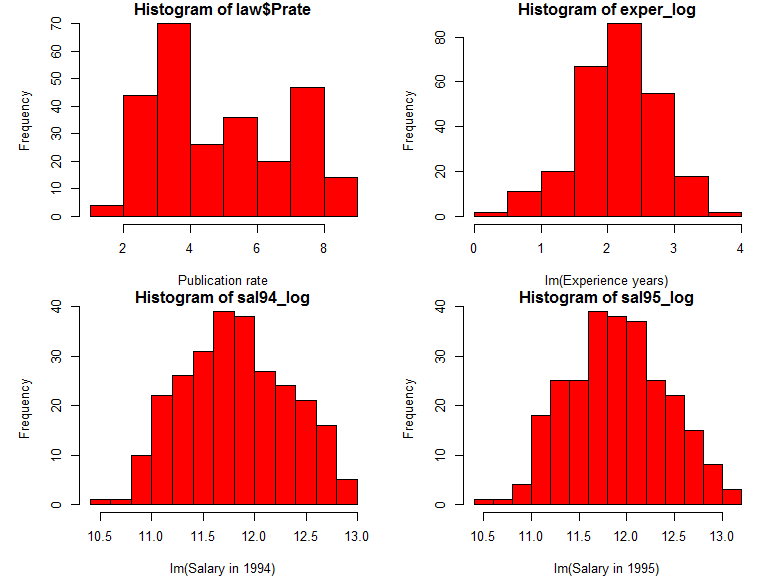
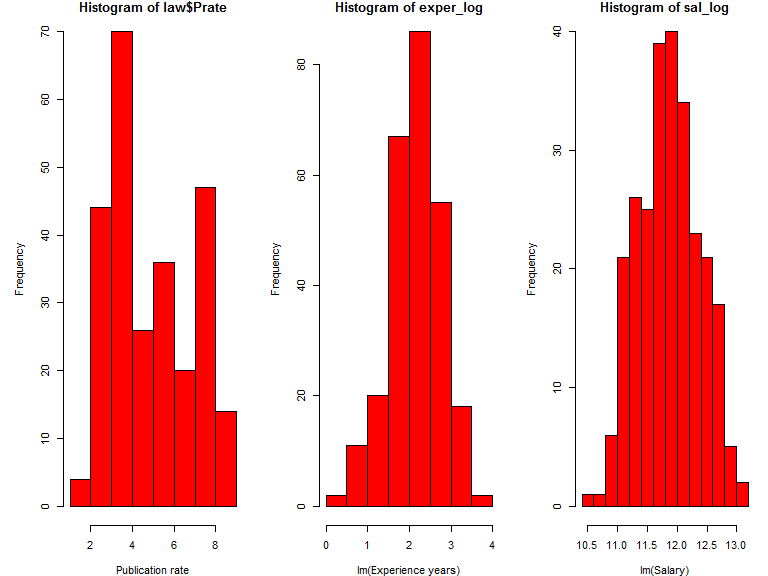
average

diff --git a/m_project.md b/m_project.md
@@ -4,7 +4,8 @@ Junhui Mi (jm4998)
 
 ``` r
 law = read_csv("./data/Lawsuit.csv") %>%
-  dplyr::select(-ID)
+  mutate(Sal = (Sal94 + Sal95)/2) %>%
+  dplyr::select(-ID, -Sal94, -Sal95)
 ```
 
     ## Parsed with column specification:
@@ -42,7 +43,7 @@ law_df = law %>%
          Cert = factor(Cert, levels = c(0,1), labels = c("not certified", "Board certified")),
          Rank = factor(Rank, levels = c(0,1,2), labels = c("Full professor", "Assistant", "Associate")))
 
-my_labels <- list(Dept = "Department", Gender = "Gender", Clin = "Research/Clinical emphasis", Cert = "Not/Board Certificated", Prate = "Publication rate", Exper = "Experience(years)", Rank = "Title", Sal94 = "Salary in 1994", Sal95 = "Salary in 1995")
+my_labels <- list(Dept = "Department", Gender = "Gender", Clin = "Research/Clinical emphasis", Cert = "Not/Board Certificated", Prate = "Publication rate", Exper = "Experience(years)", Rank = "Title", Sal = "Average Salary in 1994-1995")
 
 my_controls <- tableby.control(
   total = T,
@@ -56,7 +57,7 @@ my_controls <- tableby.control(
     range = "Min - Max",
     countpct = "N (%)"))
 
-tab1 <- tableby(Gender ~ Dept + Clin + Cert + Prate + Exper + Rank + Sal94 + Sal95, data = law_df, control = my_controls)
+tab1 <- tableby(Gender ~ Dept + Clin + Cert + Prate + Exper + Rank + Sal, data = law_df, control = my_controls)
 
 summary(tab1, title = "Summary by Gender", 
         labelTranslations = my_labels, text = T)
@@ -89,14 +90,10 @@ summary(tab1, title = "Summary by Gender",
 | \- Full professor                 |           16 (15.1%)            |            69 (44.5%)            |           85 (32.6%)            |
 | \- Assistant                      |           69 (65.1%)            |            43 (27.7%)            |           112 (42.9%)           |
 | \- Associate                      |           21 (19.8%)            |            43 (27.7%)            |           64 (24.5%)            |
-| Salary in 1994                    |                                 |                                  |                                 |
-| \- Mean (SD)                      |      118871.27 (56168.01)       |       177338.76 (85930.54)       |      153593.34 (80469.67)       |
-| \- Median (Q1, Q3)                | 108457.00 (75774.50, 143096.00) | 155006.00 (109687.00, 231501.50) | 133284.00 (90771.00, 200543.00) |
-| \- Min - Max                      |      34514.00 - 308081.00       |       52582.00 - 428876.00       |      34514.00 - 428876.00       |
-| Salary in 1995                    |                                 |                                  |                                 |
-| \- Mean (SD)                      |      130876.92 (62034.51)       |       194914.09 (94902.73)       |      168906.66 (88778.43)       |
-| \- Median (Q1, Q3)                | 119135.00 (82345.25, 154170.50) | 170967.00 (119952.50, 257163.00) | 148117.00 (99972.00, 218955.00) |
-| \- Min - Max                      |      38675.00 - 339664.00       |       58923.00 - 472589.00       |      38675.00 - 472589.00       |
+| Average Salary in 1994-1995       |                                 |                                  |                                 |
+| \- Mean (SD)                      |      124874.09 (59089.62)       |       186126.43 (90397.11)       |      161250.00 (84608.33)       |
+| \- Median (Q1, Q3)                | 113706.00 (79059.88, 148401.12) | 162987.00 (114612.50, 244332.25) | 141628.00 (95176.50, 210012.50) |
+| \- Min - Max                      |      36594.50 - 323872.50       |       55752.50 - 445859.00       |      36594.50 - 445859.00       |
 
 Summary by Gender
 
@@ -112,34 +109,29 @@ cor_mat = round(cor(law),2)
 
 
 par(mar = c(4,5,1,1))
-par(mfrow = c(1,2))
 cor(law_df[ ,c(5,6,8)]) %>% 
-  corrplot(method = "circle", type = "upper", diag = FALSE)
-cor(law_df[ ,c(5,6,9)]) %>% 
   corrplot(method = "circle", type = "upper", diag = FALSE)
 ```
 
 <img src="m_project_files/figure-gfm/unnamed-chunk-2-2.png" width="90%" />
 
 ``` r
-par(mfrow = c(2,2))
+par(mfrow = c(1,3))
 hist(law$Prate, xlab = "Publication rate", freq = T, col = 2)
 hist(law$Exper, xlab = "Experience years", freq = T, col = 2)
-hist(law$Sal94, xlab = "Salary in 1994", freq = T, col = 2)
-hist(law$Sal95, xlab = "Salary in 1995", freq = T, col = 2)
+hist(law$Sal, xlab = "Salary", freq = T, col = 2)
 ```
 
 <img src="m_project_files/figure-gfm/unnamed-chunk-2-3.png" width="90%" />
 
 ``` r
 exper_log = log(law$Exper)
-sal94_log = log(law$Sal94)
-sal95_log = log(law$Sal95)
-par(mfrow = c(2,2))
+sal_log = log(law$Sal)
+
+par(mfrow = c(1,3))
 hist(law$Prate, xlab = "Publication rate", freq = T, col = 2)
 hist(exper_log, xlab = "lm(Experience years)", freq = T, col = 2)
-hist(sal94_log, xlab = "lm(Salary in 1994)", freq = T, col = 2)
-hist(sal95_log, xlab = "lm(Salary in 1995)", freq = T, col = 2)
+hist(sal_log, xlab = "lm(Salary)", freq = T, col = 2)
 ```
 
 <img src="m_project_files/figure-gfm/unnamed-chunk-2-4.png" width="90%" />
@@ -148,163 +140,80 @@ hist(sal95_log, xlab = "lm(Salary in 1995)", freq = T, col = 2)
 law_trans = law_df %>%
   mutate(
     exper_log = log(law$Exper),
-    sal94_log = log(law$Sal94),
-    sal95_log = log(law$Sal95)
+    sal_log = log(law$Sal)
   ) %>% 
-  dplyr::select(-Exper, -Sal94, -Sal95)
+  dplyr::select(-Exper, -Sal)
 
 
-mult_fit94 = lm(sal94_log ~ Dept + Gender + Clin + Cert + Prate + Rank + exper_log, data = law_trans)
-step(mult_fit94, direction = 'backward')
+mult_fit = lm(sal_log ~ Dept + Gender + Clin + Cert + Prate + Rank + exper_log, data = law_trans)
+step(mult_fit, direction = 'backward')
 ```
 
-Start: AIC=-1026.52 sal94\_log \~ Dept + Gender + Clin + Cert + Prate +
+Start: AIC=-1027.55 sal\_log \~ Dept + Gender + Clin + Cert + Prate +
 Rank + exper\_log
 
 ``` 
         Df Sum of Sq     RSS      AIC
 ```
 
-  - Gender 1 0.0169 4.6437 -1027.57
-  - Prate 1 0.0351 4.6619 -1026.55 <none> 4.6268 -1026.52
-  - Clin 1 0.2884 4.9152 -1012.74
-  - Rank 2 1.0164 5.6432 -978.69
-  - Cert 1 1.2120 5.8387 -967.80
-  - exper\_log 1 1.5458 6.1726 -953.29
-  - Dept 5 8.7226 13.3494 -759.97
+  - Gender 1 0.0147 4.6233 -1028.72
+  - Prate 1 0.0341 4.6427 -1027.63 <none> 4.6086 -1027.55
+  - Clin 1 0.3029 4.9115 -1012.94
+  - Rank 2 1.0240 5.6326 -979.18
+  - Cert 1 1.1817 5.7903 -969.97
+  - exper\_log 1 1.5524 6.1610 -953.78
+  - Dept 5 8.6840 13.2926 -761.08
 
-Step: AIC=-1027.57 sal94\_log \~ Dept + Clin + Cert + Prate + Rank +
+Step: AIC=-1028.72 sal\_log \~ Dept + Clin + Cert + Prate + Rank +
 exper\_log
 
 ``` 
         Df Sum of Sq     RSS      AIC
 ```
 
-<none> 4.6437 -1027.57 - Prate 1 0.0516 4.6953 -1026.69 - Clin 1 0.2718
-4.9155 -1014.72 - Rank 2 1.0969 5.7406 -976.23 - Cert 1 1.2189 5.8626
--968.74 - exper\_log 1 1.6576 6.3013 -949.90 - Dept 5 8.8681 13.5118
--758.81
+<none> 4.6233 -1028.72 - Prate 1 0.0494 4.6727 -1027.95 - Clin 1 0.2882
+4.9115 -1014.94 - Rank 2 1.1018 5.7251 -976.93 - Cert 1 1.1882 5.8114
+-971.03 - exper\_log 1 1.6604 6.2837 -950.63 - Dept 5 8.8220 13.4453
+-760.10
 
-Call: lm(formula = sal94\_log \~ Dept + Clin + Cert + Prate + Rank +
+Call: lm(formula = sal\_log \~ Dept + Clin + Cert + Prate + Rank +
 exper\_log, data = law\_trans)
 
 Coefficients: (Intercept) DeptBiochemistry/Molecular Biology  
-12.0229 -0.8548  
+12.06878 -0.85843  
 DeptPhysiology DeptGenetics  
-\-1.0226 -0.7053  
+\-1.02545 -0.70945  
 DeptPediatrics DeptMedicine  
-\-0.7106 -0.3632  
+\-0.70864 -0.36604  
 ClinPrimarily clinical emphasis CertBoard certified  
-0.1570 0.1783  
+0.16163 0.17600  
 Prate RankAssistant  
-\-0.0287 -0.2122  
+\-0.02807 -0.21275  
 RankAssociate exper\_log  
-\-0.1053
-0.1844
+\-0.10469
+0.18455
 
 ``` r
-mult_fit94 = lm(sal94_log ~ Dept + Clin + Cert + Prate + Rank + exper_log, data = law_trans)
-summary(mult_fit94)
+mult_fit = lm(sal_log ~ Dept + Clin + Cert + Prate + Rank + exper_log, data = law_trans)
+summary(mult_fit)
 ```
 
-Call: lm(formula = sal94\_log \~ Dept + Clin + Cert + Prate + Rank +
+Call: lm(formula = sal\_log \~ Dept + Clin + Cert + Prate + Rank +
 exper\_log, data = law\_trans)
 
-Residuals: Min 1Q Median 3Q Max -0.31867 -0.08688 -0.01049 0.07913
-1.00026
+Residuals: Min 1Q Median 3Q Max -0.32090 -0.08351 -0.01059 0.07524
+1.00546
 
-Coefficients: Estimate Std. Error t value Pr(\>|t|) (Intercept) 12.02293
-0.09459 127.110 \< 2e-16 DeptBiochemistry/Molecular Biology -0.85480
-0.06279 -13.614 \< 2e-16 DeptPhysiology -1.02258 0.06253 -16.354 \<
-2e-16 DeptGenetics -0.70526 0.05522 -12.772 \< 2e-16 DeptPediatrics
--0.71058 0.03632 -19.565 \< 2e-16 DeptMedicine -0.36321 0.03182 -11.414
-\< 2e-16 ClinPrimarily clinical emphasis 0.15696 0.04111 3.818 0.00017
-CertBoard certified 0.17826 0.02205 8.085 2.72e-14 Prate -0.02870
-0.01725 -1.664 0.09737 RankAssistant -0.21221 0.02772 -7.654 4.28e-13
-RankAssociate -0.10530 0.02379 -4.426 1.43e-05 exper\_log 0.18439
-0.01956 9.428 \< 2e-16
-
-(Intercept) *** DeptBiochemistry/Molecular Biology *** DeptPhysiology
-*** DeptGenetics *** DeptPediatrics *** DeptMedicine *** ClinPrimarily
-clinical emphasis *** CertBoard certified *** Prate .  
-RankAssistant *** RankAssociate *** exper\_log \*\*\* — Signif. codes: 0
-‘***’ 0.001 ’**’ 0.01 ’*’ 0.05 ‘.’ 0.1 ’ ’ 1
-
-Residual standard error: 0.1366 on 249 degrees of freedom Multiple
-R-squared: 0.9309, Adjusted R-squared: 0.9278 F-statistic: 304.8 on 11
-and 249 DF, p-value: \<
-2.2e-16
-
-``` r
-mult_fit95 = lm(sal95_log ~ Dept + Gender + Clin + Cert + Prate + Rank + exper_log, data = law_trans)
-step(mult_fit95, direction = 'backward')
-```
-
-Start: AIC=-1026.23 sal95\_log \~ Dept + Gender + Clin + Cert + Prate +
-Rank + exper\_log
-
-``` 
-        Df Sum of Sq     RSS      AIC
-```
-
-  - Gender 1 0.0128 4.6448 -1027.51
-  - Prate 1 0.0333 4.6653 -1026.36 <none> 4.6320 -1026.23
-  - Clin 1 0.3163 4.9483 -1010.99
-  - Rank 2 1.0310 5.6630 -977.78
-  - Cert 1 1.1547 5.7867 -970.14
-  - exper\_log 1 1.5583 6.1903 -952.54
-  - Dept 5 8.6500 13.2820 -761.29
-
-Step: AIC=-1027.51 sal95\_log \~ Dept + Clin + Cert + Prate + Rank +
-exper\_log
-
-``` 
-        Df Sum of Sq     RSS      AIC
-```
-
-<none> 4.6448 -1027.51 - Prate 1 0.0474 4.6922 -1026.86 - Clin 1 0.3036
-4.9484 -1012.99 - Rank 2 1.1063 5.7511 -975.75 - Cert 1 1.1607 5.8055
--971.29 - exper\_log 1 1.6628 6.3076 -949.64 - Dept 5 8.7813 13.4261
--760.47
-
-Call: lm(formula = sal95\_log \~ Dept + Clin + Cert + Prate + Rank +
-exper\_log, data = law\_trans)
-
-Coefficients: (Intercept) DeptBiochemistry/Molecular Biology  
-12.11256 -0.86173  
-DeptPhysiology DeptGenetics  
-\-1.02812 -0.71327  
-DeptPediatrics DeptMedicine  
-\-0.70687 -0.36861  
-ClinPrimarily clinical emphasis CertBoard certified  
-0.16587 0.17395  
-Prate RankAssistant  
-\-0.02749 -0.21325  
-RankAssociate exper\_log  
-\-0.10409
-0.18468
-
-``` r
-mult_fit95 = lm(sal95_log ~ Dept + Clin + Cert + Prate + Rank + exper_log, data = law_trans)
-summary(mult_fit95)
-```
-
-Call: lm(formula = sal95\_log \~ Dept + Clin + Cert + Prate + Rank +
-exper\_log, data = law\_trans)
-
-Residuals: Min 1Q Median 3Q Max -0.32369 -0.08028 -0.00854 0.07091
-1.01026
-
-Coefficients: Estimate Std. Error t value Pr(\>|t|) (Intercept) 12.11256
-0.09460 128.042 \< 2e-16 DeptBiochemistry/Molecular Biology -0.86173
-0.06280 -13.723 \< 2e-16 DeptPhysiology -1.02812 0.06253 -16.441 \<
-2e-16 DeptGenetics -0.71327 0.05523 -12.915 \< 2e-16 DeptPediatrics
--0.70687 0.03632 -19.460 \< 2e-16 DeptMedicine -0.36861 0.03183 -11.582
-\< 2e-16 ClinPrimarily clinical emphasis 0.16587 0.04112 4.034 7.30e-05
-CertBoard certified 0.17395 0.02205 7.888 9.68e-14 Prate -0.02749
-0.01725 -1.594 0.112 RankAssistant -0.21325 0.02773 -7.691 3.40e-13
-RankAssociate -0.10409 0.02379 -4.375 1.79e-05 exper\_log 0.18468
-0.01956 9.441 \< 2e-16
+Coefficients: Estimate Std. Error t value Pr(\>|t|) (Intercept) 12.06878
+0.09438 127.876 \< 2e-16 DeptBiochemistry/Molecular Biology -0.85843
+0.06265 -13.702 \< 2e-16 DeptPhysiology -1.02545 0.06239 -16.436 \<
+2e-16 DeptGenetics -0.70945 0.05510 -12.876 \< 2e-16 DeptPediatrics
+-0.70864 0.03624 -19.554 \< 2e-16 DeptMedicine -0.36604 0.03175 -11.528
+\< 2e-16 ClinPrimarily clinical emphasis 0.16163 0.04102 3.940 0.000106
+CertBoard certified 0.17600 0.02200 7.999 4.73e-14 Prate -0.02807
+0.01721 -1.631 0.104163 RankAssistant -0.21275 0.02766 -7.690 3.40e-13
+RankAssociate -0.10469 0.02374 -4.410 1.54e-05 exper\_log 0.18455
+0.01952 9.457 \< 2e-16
 
 (Intercept) *** DeptBiochemistry/Molecular Biology *** DeptPhysiology
 *** DeptGenetics *** DeptPediatrics *** DeptMedicine *** ClinPrimarily
@@ -312,6 +221,6 @@ clinical emphasis *** CertBoard certified *** Prate
 RankAssistant *** RankAssociate *** exper\_log \*\*\* — Signif. codes: 0
 ‘***’ 0.001 ’**’ 0.01 ’*’ 0.05 ‘.’ 0.1 ’ ’ 1
 
-Residual standard error: 0.1366 on 249 degrees of freedom Multiple
-R-squared: 0.9312, Adjusted R-squared: 0.9282 F-statistic: 306.3 on 11
-and 249 DF, p-value: \< 2.2e-16
+Residual standard error: 0.1363 on 249 degrees of freedom Multiple
+R-squared: 0.9313, Adjusted R-squared: 0.9283 F-statistic: 307 on 11 and
+249 DF, p-value: \< 2.2e-16
